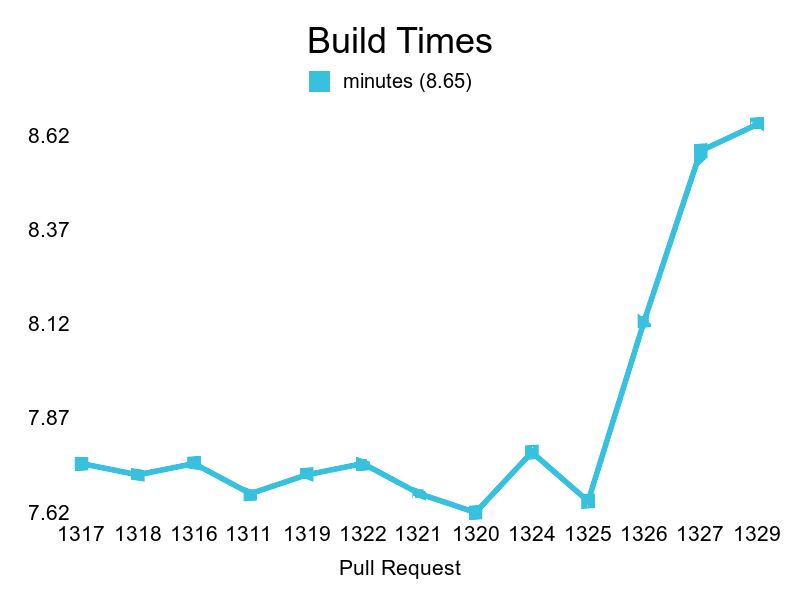
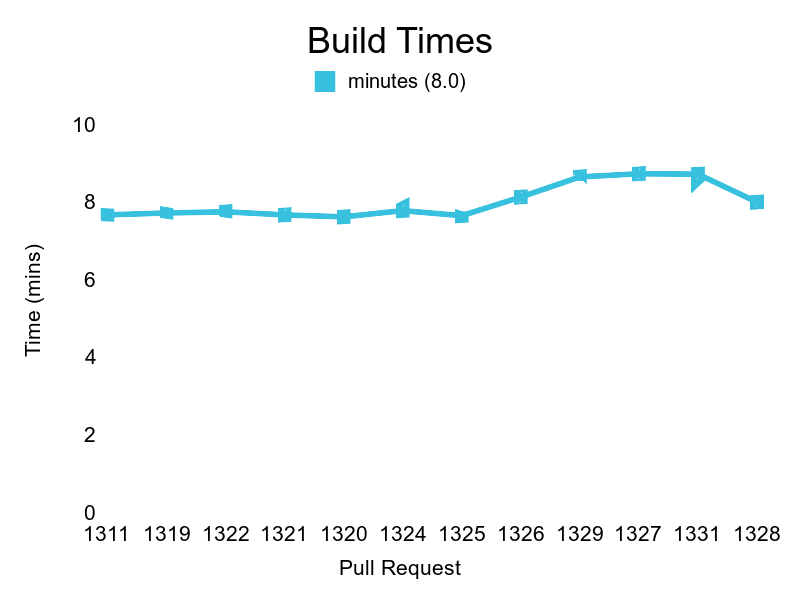
Added axis labels and scaling

diff --git a/gen-cov-chart.rb b/gen-cov-chart.rb
@@ -1,22 +1,43 @@
 require 'gruff'
 require 'mongo'
+require_relative 'constants'
 
-coverage_data = [
-  [ "2.4", 2187 + 46079, 697 + 31899 ],
-  [ "2.5", 2198 + 46186, 297 + 23172 ]
-]
+# Script that generates a chart displaying number of lines of code by Swift/Objective-C.
 
-# To-Do: Fill in coverage data
+coverage_data = []
+keys = []
 
-g = Gruff::StackedBar.new
-g.title = "Coverage %"
+client = Mongo::Client.new(MONGO_URI)
+db = client.database
+collection = client[:builds]
+collection.find().sort(:start_time => -1).limit(LIMIT).map do |document|
+    startDateComponents = document['start_time'].to_s.split(' ')[0].split('-')
+    
+    dateString = startDateComponents[1] + "/" + startDateComponents[2]
+
+    pull_number = document['pull_request'].to_i
+    if pull_number == 0 && document['metrics']['coverage'] != nil && !keys.include?(dateString)
+        keys.push(dateString)
+        
+        missedLines = document['metrics']['coverage']['swift_files']['missed_lines'] + document['metrics']['coverage']['m_files']['missed_lines']
+        totalLines = document['metrics']['coverage']['swift_files']['total_lines'] + document['metrics']['coverage']['m_files']['total_lines']
+        covPercent = ((1.0 * (totalLines - missedLines) / totalLines) * 100).to_i
+        coverage_data.insert(0, [dateString, covPercent])
+    end
+end
+
+g = Gruff::Bar.new
+g.minimum_value = 0
+g.maximum_value = 100
+g.title = "Coverage"
 g.labels = coverage_data.each_with_index.map {|data, i| [ i, data[0] ]}.to_h
 g.theme = {
-  :colors => ['#12a702', '#aedaa9'],
-  :font_color => 'black',
-  :background_colors => 'white'
+    :colors => ['#12a702', '#aedaa9'],
+    :font_color => 'black',
+    :background_colors => 'white'
 }
 g.font = '/Library/Fonts/Verdana.ttf'
-g.data("Swift", coverage_data.map {|data| data[1] - data[2]})
-g.data("Obj-C", coverage_data.map {|data| data[2]})
+g.data("covered % (#{coverage_data[coverage_data.size - 1][1]})", coverage_data.map {|data| data[1]})
+g.x_axis_label = 'Date'
+g.y_axis_label = 'Coverage %'
 g.write "output/code_coverage.png"

diff --git a/gen-lines-chart.rb b/gen-lines-chart.rb
@@ -1,15 +1,5 @@
 require 'gruff'
 require 'mongo'
-
-coverage_data = [
-  [ "2.4", 2187 + 46079, 697 + 31899 ],
-  [ "2.5", 2198 + 46186, 297 + 23172 ]
-]
-
-# To-Do: Fill in coverage data
-
-require 'gruff'
-require 'mongo'
 require_relative 'constants'
 
 # Script that generates a chart displaying number of lines of code by Swift/Objective-C.
@@ -21,10 +11,14 @@ client = Mongo::Client.new(MONGO_URI)
 db = client.database
 collection = client[:builds]
 collection.find().sort(:start_time => -1).limit(LIMIT).map do |document|
+    startDateComponents = document['start_time'].to_s.split(' ')[0].split('-')
+    
+    dateString = startDateComponents[1] + "/" + startDateComponents[2]
+
     pull_number = document['pull_request'].to_i
-    if pull_number != 0 && !keys.include?(pull_number) && document['metrics'] != nil && document['metrics']['coverage'] != nil
-        keys.push(pull_number)
-        coverage_data.insert(0, [pull_number, document['metrics']['coverage']['swift_files']['total_lines'], document['metrics']['coverage']['m_files']['total_lines']])
+    if pull_number == 0 && document['metrics']['coverage'] != nil && !keys.include?(dateString)
+        keys.push(dateString)
+        coverage_data.insert(0, [dateString, document['metrics']['coverage']['swift_files']['total_lines'], document['metrics']['coverage']['m_files']['total_lines']])
     end
 end
 
@@ -37,6 +31,8 @@ g.theme = {
   :background_colors => 'white'
 }
 g.font = '/Library/Fonts/Verdana.ttf'
-g.data("Swift", coverage_data.map {|data| data[1]})
-g.data("Objective-C", coverage_data.map {|data| data[2]})
+g.data("Swift (#{coverage_data[coverage_data.size - 1][1]})", coverage_data.map {|data| data[1]})
+g.data("Objective-C (#{coverage_data[coverage_data.size - 1][2]})", coverage_data.map {|data| data[2]})
+g.x_axis_label = 'Day'
+g.y_axis_label = 'Lines of Code'
 g.write "output/lines_of_code.png"

diff --git a/gen-warn-chart.rb b/gen-warn-chart.rb
@@ -11,10 +11,14 @@ client = Mongo::Client.new(MONGO_URI)
 db = client.database
 collection = client[:builds]
 collection.find().sort(:start_time => -1).limit(LIMIT).map do |document|
+    startDateComponents = document['start_time'].to_s.split(' ')[0].split('-')
+    
+    dateString = startDateComponents[1] + "/" + startDateComponents[2]
+
     pull_number = document['pull_request'].to_i
-    if pull_number == 0
-        keys.push(pull_number)
-        coverage_data.insert(0, [pull_number, document['metrics']['warning_count']])
+    if pull_number == 0 && document['metrics']['test_build_start'] != nil && !keys.include?(dateString)
+        keys.push(dateString)
+        coverage_data.insert(0, [dateString, document['metrics']['warning_count']])
     end
 end
 
@@ -23,7 +27,8 @@ g.title = 'Warnings'
 g.labels = coverage_data.each_with_index.map {|data, i| [ i, data[0] ]}.to_h
 g.dot_style = :square
 g.data("# warnings (#{coverage_data[coverage_data.size - 1][1]})", coverage_data.map {|data| data[1]})
-g.x_axis_label = ''
+g.x_axis_label = 'Date'
+g.y_axis_label = 'Number of Warnings'
 
 g.theme = {
     :colors => ['#c3a00b'],

diff --git a/gen-times-chart.rb b/gen-times-chart.rb
@@ -29,11 +29,14 @@ collection.find().sort(:start_time => -1).limit(LIMIT).map do |document|
 end
 
 g = Gruff::Line.new
+g.minimum_value = 0
+g.maximum_value = 10
 g.title = 'Build Times'
 g.labels = coverage_data.each_with_index.map {|data, i| [ i, data[0] ]}.to_h
 g.dot_style = :square
 g.data("minutes (#{coverage_data[coverage_data.size - 1][1]})", coverage_data.map {|data| data[1]})
 g.x_axis_label = 'Pull Request'
+g.y_axis_label = 'Time (mins)'
 
 g.theme = {
     :colors => ['#38c0df'],

diff --git a/gen-builds-chart.rb b/gen-builds-chart.rb
@@ -47,4 +47,7 @@ g.theme = {
 g.font = '/Library/Fonts/Verdana.ttf'
 g.data("Pull Request (#{coverage_data[coverage_data.size - 1][1]})", coverage_data.map {|data| data[1]})
 g.data("Other (#{coverage_data[coverage_data.size - 1][2]})", coverage_data.map {|data| data[2]})
+g.x_axis_label = 'Date'
+g.y_axis_label = 'Number of Builds'
+g.y_axis_increment = 2
 g.write "output/daily-builds.png"
